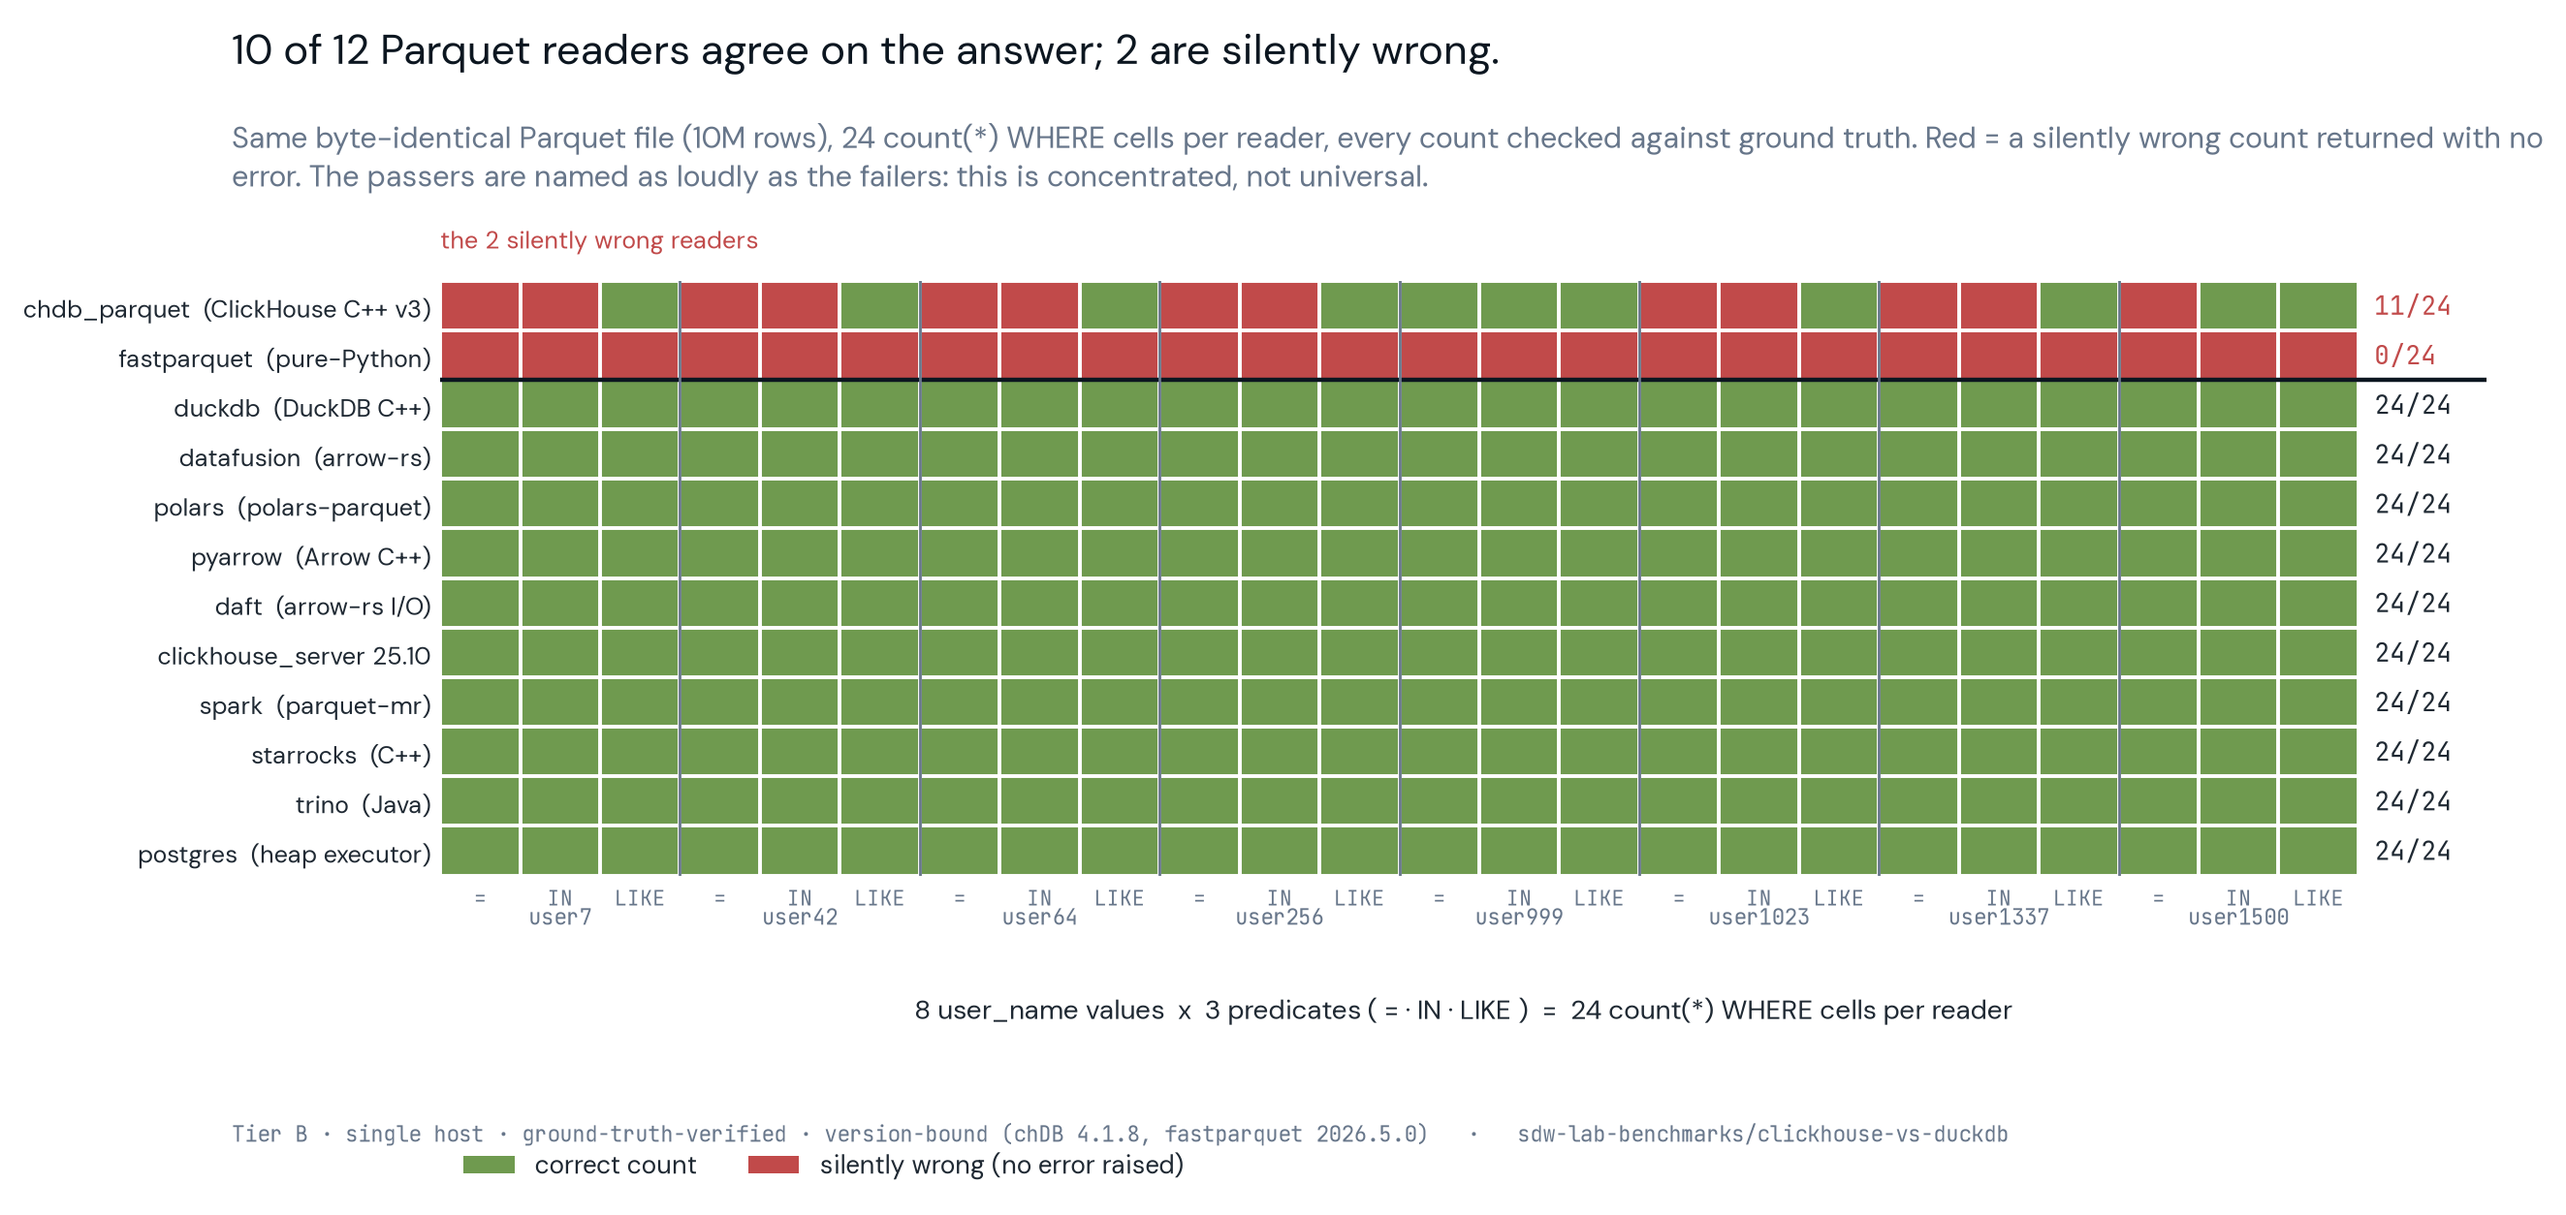
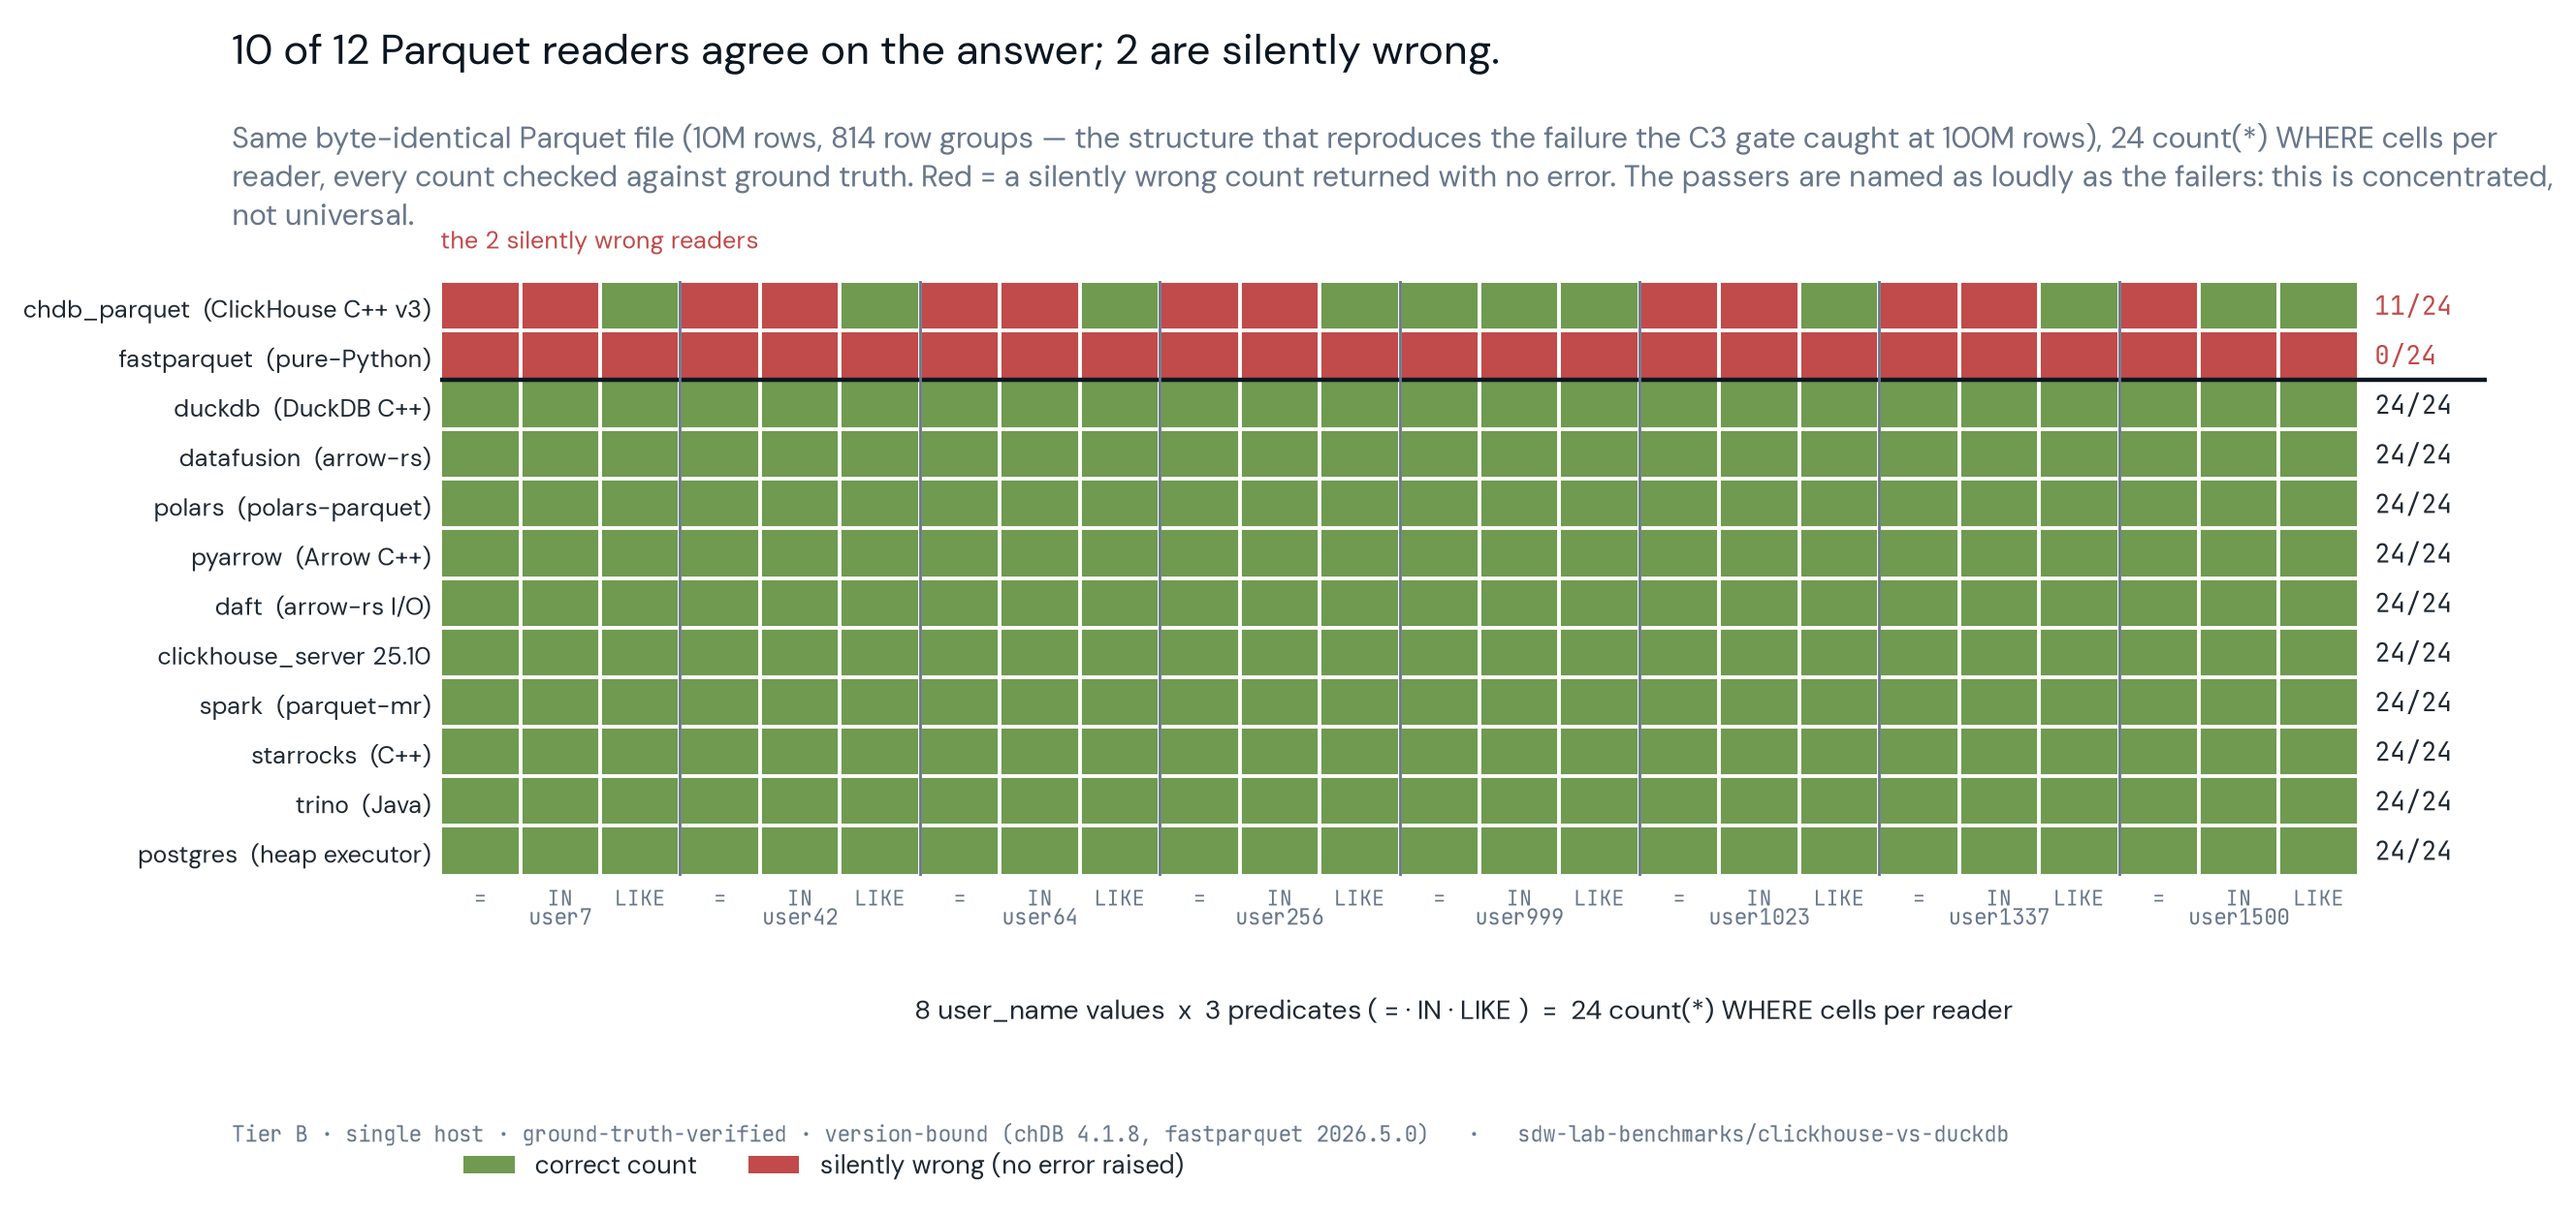
📊 P5 chart-defect pass: true donut percentages, chDB 10M/100M framing, r20 8.2x caption
Three chart-internal defects from the 2026-07-02 P5 addendum (securitydataworks PR #4 notes):

- chartstyle.donut labeled raw slice values as percents (f"{val:.1f}%"); now computes the
  true share (100*val/sum). answer-equivalence-donut goes from "10.0%/2.0%" (counts with a
  % sign) to 83.3%/16.7%; data-health-recovery-donut is unchanged (its inputs already sum
  to 100) and its PNG is left as committed.
- r03/r03b/r19 framed the chDB undercount as a plain "10M-row Parquet file". Per
  CORRECTNESS-DIVERGENCE.md the C3 gate failed at 100M rows; the 10M file is the isolated
  reproduction crafted with the same ~814-row-group structure — the trigger is row-group
  structure, not scale. Subtitles and script comments now say so.
- r20's tier caption cited a phantom "lakehouse 8.2x Zeek number"; per
  NUMBER-VERIFICATION-2026-07-02.md it now cites the real split (8.5x Iceberg ·
  9.0x CH-ZSTD22).

Re-rendered the four affected PNGs + the two feed base copies and their 1200x627/1080x1080
derivatives; fixed the stale 11-of-13-reader rows in CHART-MANIFEST.md (now 10 of 12).

Claude-Session: https://claude.ai/code/session_01HNwtw5TPXp4fmqfgciEq1p

diff --git a/charts/_r19_chdb-parquet-equality-silent-undercount.py b/charts/_r19_chdb-parquet-equality-silent-undercount.py
@@ -4,6 +4,10 @@ import numpy as np
 
 # Source: clickhouse-vs-duckdb/results/CORRECTNESS-DIVERGENCE.md
 # DuckDB 1.5.3 vs chDB 4.1.8, SAME 10M-row Parquet (814 row groups). Ground truth = generator.
+# FRAMING: the C3 answer-equality gate first failed at 100M rows (default row groups); this 10M
+# file is the isolated reproduction, built with a small row-group size (~814 groups) to mimic the
+# 100M file's structure. The trigger is row-group structure, not raw scale — a plain 10M-row file
+# does not reliably reproduce it.
 # chDB '=' over Parquet undercount per probe value (rows missed, all silent, no error):
 #   user42 -7 · user1337 -6 · user7 -7 · user999 0 · user1500 -10 · user256 -12 · user1023 -10 · user64 0
 # Diverged on 6 of 8; total undercount 52 rows. chDB LIKE, chDB MergeTree, DuckDB all correct.
@@ -20,7 +24,7 @@ miss   = [miss[i]   for i in order]
 
 fig, ax = cs.canvas(
     "chDB's Parquet equality filter drops matching rows silently — fast and wrong.",
-    "count(*) WHERE user_name = ? on a 10M-row Parquet file. chDB 4.1.8 undercounts 6 of 8 probe values; DuckDB, chDB LIKE and chDB MergeTree all return the true count.",
+    "count(*) WHERE user_name = ? on the isolated 10M-row / 814-row-group reproduction of the failure the C3 gate caught at 100M rows — the trigger is row-group structure, not scale. chDB 4.1.8 undercounts 6 of 8 probe values; DuckDB, chDB LIKE and chDB MergeTree all return the true count.",
     source="sdw-lab-benchmarks/clickhouse-vs-duckdb · CORRECTNESS-DIVERGENCE.md",
     tier="Tier B · single-host · ground-truth-verified · chDB 4.1.8 Parquet '=' path only (LIKE + MergeTree correct)",
     figsize=(9.0, 4.9), bottom=0.16, top=0.80)

diff --git a/charts/_r03b_donut.py b/charts/_r03b_donut.py
@@ -2,10 +2,11 @@ import chartstyle as cs
 # KPI donut companion to the reader heatmap (MULTI-ENGINE-CORRECTNESS.md): 10 of 12 readers agree.
 fig, ax = cs.canvas(
     "10 of 12 Parquet readers return the right answer.",
-    "Byte-identical 10M-row data, 24 count(*) WHERE cells per reader checked against ground truth.",
+    "Byte-identical 10M-row / 814-row-group Parquet (the structure behind the 100M-row C3 failure), "
+    "24 count(*) WHERE cells per reader vs ground truth.",
     source="sdw-lab-benchmarks/clickhouse-vs-duckdb",
     tier="Tier B · single-host · version-bound (chDB 4.1.8, fastparquet) · concentrated, not universal",
-    figsize=(7.4, 5.0), top=0.82, bottom=0.10)
+    figsize=(7.4, 5.0), top=0.78, bottom=0.10)
 cs.donut(ax, [10, 2], ["10 readers\nagree", "2 silently\nwrong"], [cs.GOOD, cs.BAD],
          center="10 / 12", center_sub="agree on every cell")
 cs.direction_note(fig, "silently wrong: lower is better")

diff --git a/charts/chartstyle.py b/charts/chartstyle.py
@@ -127,9 +127,10 @@ def donut(ax, values, labels, colors, center=None, center_sub=None, startangle=9
     import numpy as np
     wedges, _ = ax.pie(values, colors=colors, startangle=startangle, counterclock=False,
                        wedgeprops=dict(width=0.42, edgecolor="white", linewidth=2))
+    total = float(sum(values))  # values may be raw counts; the % label must be a true share
     for w, val, lab in zip(wedges, values, labels):
         ang = np.deg2rad((w.theta2 + w.theta1) / 2.0)
-        ax.text(1.22*np.cos(ang), 1.22*np.sin(ang), f"{lab}\n{val:.1f}%",
+        ax.text(1.22*np.cos(ang), 1.22*np.sin(ang), f"{lab}\n{100.0 * val / total:.1f}%",
                 ha="center", va="center", fontsize=10.5, color=BODY)
     if center:
         ax.text(0, 0.10, center, ha="center", va="center", fontsize=23, fontweight="bold", color=INK)

diff --git a/charts/_r20_schema-trained-zstd-dictionary-compression.py b/charts/_r20_schema-trained-zstd-dictionary-compression.py
@@ -19,7 +19,7 @@ fig, ax = cs.canvas(
     "A schema-trained ZSTD dictionary wins per-event, then fades as you batch.",
     "Compression ratio vs raw JSON for 100k OCSF events. The trained dictionary's edge is the gap between the two lines — widest at 1 event/block, gone by 100.",
     source="sdw-lab-benchmarks/ocsf-zstd-dictionary · RESULTS.md · dict trained on disjoint held-out 50k",
-    tier="Tier B · single-host · ~221-byte JSON events · per-event ingest regime, NOT the lakehouse 8.2x Zeek number",
+    tier="Tier B · single-host · ~221-byte JSON events · per-event ingest regime, NOT the lakehouse Zeek footprints (8.5x Iceberg · 9.0x CH-ZSTD22)",
     figsize=(9.0, 4.9), bottom=0.16, top=0.80)
 
 # columnar reference line (the ceiling the per-record codecs can't reach)

diff --git a/charts/_r03_reader_answer_equivalence.py b/charts/_r03_reader_answer_equivalence.py
@@ -68,7 +68,8 @@ nrow, ncol = M.shape
 
 fig, ax = cs.canvas(
     "10 of 12 Parquet readers agree on the answer; 2 are silently wrong.",
-    "Same byte-identical Parquet file (10M rows), 24 count(*) WHERE cells per reader, every count checked "
+    "Same byte-identical Parquet file (10M rows, 814 row groups — the structure that reproduces the failure "
+    "the C3 gate caught at 100M rows), 24 count(*) WHERE cells per reader, every count checked "
     "against ground truth. Red = a silently wrong count returned with no error. The passers are named as "
     "loudly as the failers: this is concentrated, not universal.",
     source="sdw-lab-benchmarks/clickhouse-vs-duckdb",

diff --git a/charts/CHART-MANIFEST.md b/charts/CHART-MANIFEST.md
@@ -18,8 +18,8 @@ Web-served at `securitydataworks.com/research/charts/<file>`.
 | 1 | `data-health-recovery-donut.png` | Cross-tool recovery, donut (center KPI 75.6%) | detection/cross-tool-assurance-gap ✅ |
 | 1 | `data-health-recovery.png` | Cross-tool recovery, stacked bar (47.7→+27.9→24.4 of 140k cells) | detection/cross-tool-assurance-gap ✅ 📍PLACED |
 | 2 | `de-gamed-recall-loss.png` | Verbatim SigmaHQ rules on real APT29 telemetry: 9 named adversary-tail detections drop to zero matches under the documented coarsening while routine rules lose  | web:/research + essay:ocsf/context-collapse-measured + litreview:figure-degamed-recall ✅ 📍PLACED |
-| 3 | `13-reader-answer-equivalence.png` | Byte-identical 10M-row Parquet, 24 count(*) WHERE cells per reader checked against ground truth: 11 of 13 readers agree, chDB 4.1.8's v3 reader is silently wron | essay:trustworthy/verify-the-answer + web:/research + book:ch09-query-engine-selection |
-| 3 | `answer-equivalence-donut.png` | 11-of-13 readers agree, KPI donut | (verify-the-answer essay — not yet written) |
+| 3 | `13-reader-answer-equivalence.png` | Byte-identical 10M-row / 814-row-group Parquet (the structure behind the 100M-row C3 failure), 24 count(*) WHERE cells per reader checked against ground truth: 10 of 12 readers agree, chDB 4.1.8's v3 reader is silently wron | essay:trustworthy/verify-the-answer + web:/research + book:ch09-query-engine-selection |
+| 3 | `answer-equivalence-donut.png` | 10-of-12 readers agree, KPI donut (true-share slice labels 83.3%/16.7%) | (verify-the-answer essay — not yet written) |
 | 4 | `context-collapse-price-of-the-fix.png` | Keeping atomic-grain OCSF fidelity on the APT29 corpus costs 1.80x storage and 1.26x query compute vs the coarsened store, but the compute premium is not flat — | essay:ocsf/context-collapse-measured + essay:economics/pricing-the-fidelity-fix + web:/research ✅ |
 | 5 | `three-mechanisms-of-silent-detection-loss.png` | Three structural ways flattening OCSF silently drops a detection — absence-collapses-to-NULL (recall 1.00->0.00), grain loss (beacon-hunt F1 1.00->0.50), and fl | essay:ocsf/flattening-anti-pattern + web:/research + litreview:figure-flattening-fidelity ✅ 📍PLACED |
 | 6 | `schema-grounding-cuts-invented-paths.png` | Giving a model the OCSF schema cuts its rate of inventing non-existent paths (silent-error) across a capability ladder — but the lift shrinks toward the frontie | essay:ai/schema-is-the-lever + web:/research/ai-native-vs-augmented + book:ch08-ocsf-strategy 📍PLACED (in ocsf/llm-ocsf-mapping) |
@@ -35,7 +35,7 @@ Web-served at `securitydataworks.com/research/charts/<file>`.
 | 16 | `ducklake-vs-iceberg-read-neutrality-on-b.png` | On byte-identical Parquet the catalogs are read-neutral (3 of 4 queries at parity); the apparent format 'speedup' decomposes to the writer's codec choice (up to | essay:catalogs/format-read-neutrality + litreview:figure |
 | 17 | `parquet-writer-as-a-read-lever.png` | Pick the writer not just the codec: at a matched zstd-3 codec pyiceberg writes the smallest file (212.4 MB) and reads fastest (381ms) while pyarrow's two encodi | essay:catalogs/writer-not-codec (lakehouse/same-codec-different-sizes) ✅ |
 | 18 | `z-order-vs-single-sort-vs-unordered.png` | Z-order is the only layout that prunes the two-plus-dimension queries a single sort can't touch (Q3 15%, Q4 65%) but pays 5.6x the single-sort write cost — Tier | essay:engines/zorder-pruning (pipelines/zorder-pruning-tradeoff) |
-| 19 | `chdb-parquet-equality-silent-undercount.png` | chDB 4.1.8's Parquet equality path silently drops 6 to 12 matching rows on 6 of 8 probe values (52 short overall) with no error, while DuckDB, chDB LIKE and chD | essay:trustworthy/verify-the-answer + essay:economics/how-to-run-a-benchmark-that-doesnt-lie |
+| 19 | `chdb-parquet-equality-silent-undercount.png` | chDB 4.1.8's Parquet equality path silently drops 6 to 12 matching rows on 6 of 8 probe values (52 short overall) with no error, on the 10M-row / 814-row-group repro of the 100M-row C3 failure, while DuckDB, chDB LIKE and chD | essay:trustworthy/verify-the-answer + essay:economics/how-to-run-a-benchmark-that-doesnt-lie |
 | 20 | `schema-trained-zstd-dictionary-compression.png` | A schema-trained ZSTD dictionary takes per-event compression from 1.33x to 3.57x but its edge fades as you batch and is gone by 100 events/block, while columnar | essay:economics/cost-paradox + essay:lakehouse/same-codec-different-sizes ✅ |
 | 21 | `deterministic-schema-constrained-mapper.png` | Constrain the output to the OCSF 1.8.0 schema and silent errors go to zero by construction where phi3 invents non-existent paths 60 to 99% of the time, but the  | essay:ai/schema-is-the-lever (ocsf/llm-ocsf-mapping) + book:ch08-ocsf-strategy ✅ |
 | 22 | `projected-dwpd-vs-ingest.png` | Projected drive-writes-per-day stays an order of magnitude under a read-intensive drive even at 5 TB/day ingest. Tier B, single-host: write-amp is MEASURED on 5 | essay:economics/endurance-premium-security-data ✅ |
